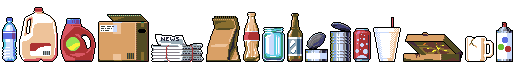
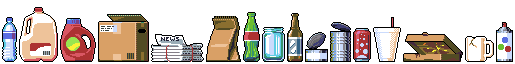
Pickup padding Soda bottle updated to green glass

Changed region(s): [[0.466, 0.625, 0.5282, 0.9688], [0.466, 0.1875, 0.5282, 0.5]]

diff --git a/release/js/items.js b/release/js/items.js
@@ -181,13 +181,15 @@ items.grab_check = function() {
   var item_area = new Object();
   var item_type;
   
+  var grab_padding = 8; // extra border pixels to grab an item
+  
   // back to front so that we're grabbing the foremost item
   for (var i=items.ilist.length-1; i >= 0; i--) {
        
-    item_area.x = items.ilist[i].x;
-    item_area.y = items.ilist[i].y;
-    item_area.w = items.defs[items.ilist[i].itype].w;
-    item_area.h = items.defs[items.ilist[i].itype].h;
+    item_area.x = items.ilist[i].x - grab_padding;
+    item_area.y = items.ilist[i].y - grab_padding;
+    item_area.w = items.defs[items.ilist[i].itype].w + grab_padding + grab_padding;
+    item_area.h = items.defs[items.ilist[i].itype].h + grab_padding + grab_padding;
     
     if (utils.is_within(inputs.mouse_pos, item_area)) {
     
